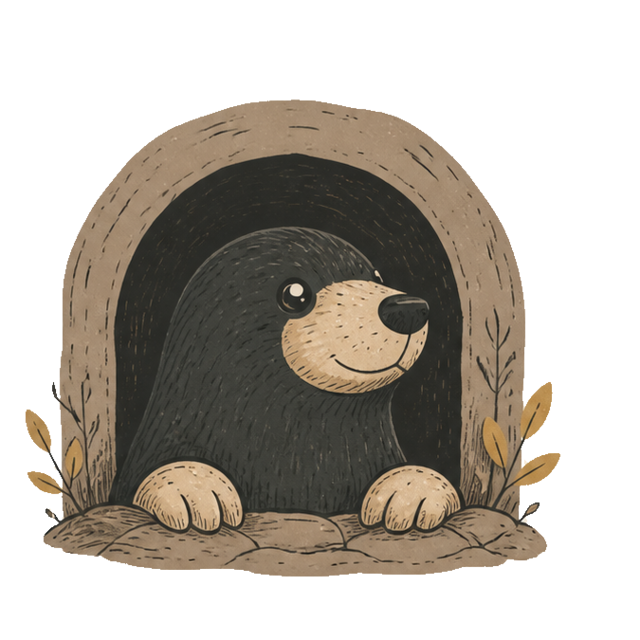
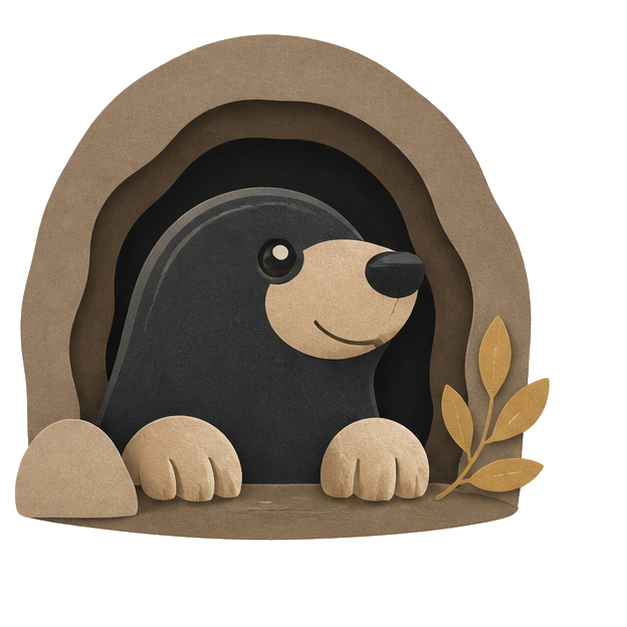
Use the selected mole and fix responsive branding

diff --git a/Burrowmarks/index.html b/Burrowmarks/index.html
@@ -13,10 +13,11 @@
   <link rel="canonical" href="https://goodburrow.github.io/Burrowmarks/">
   <link rel="icon" href="favicon.png">
   <link rel="stylesheet" href="styles.css">
+  <link rel="stylesheet" href="responsive-fixes.css">
 </head>
 <body>
   <nav class="nav" aria-label="Main navigation">
-    <a class="wordmark" href="#top"><img src="favicon.png" alt="">Burrowmarks</a>
+    <a class="wordmark" href="#top">Burrowmarks</a>
     <div><a href="#how">How it works</a><a href="#trust">Why it lasts</a><a class="nav-button" href="#install">Firefox preview</a></div>
   </nav>
 
@@ -30,7 +31,7 @@
         <p class="micro">Five links free forever · Unlimited for $14.99 once · Export anytime</p>
       </div>
       <div class="preview" role="img" aria-label="Preview of the Burrowmarks private vault">
-        <aside><span class="preview-brand"><img src="favicon.png" alt="">Burrowmarks</span><b>All private links</b><span>Tucked away</span><span>Backup &amp; export</span><small>LOCAL + ENCRYPTED</small><img class="mole" src="mole-character.png" alt=""></aside>
+        <aside><span class="preview-brand">Burrowmarks</span><b>All private links</b><span>Tucked away</span><span>Backup &amp; export</span><small>LOCAL + ENCRYPTED</small><img class="mole" src="mole-character.png" alt=""></aside>
         <div class="preview-main"><p class="eyebrow">Your private collection</p><h2>Quietly kept.</h2><div class="search">Search private links</div><div class="saved"><strong>Gift research</strong><span>••••••••••••</span></div><div class="saved"><strong>Personal reading</strong><span>••••••••••••</span></div><div class="saved"><strong>Saved for later</strong><span>••••••••••••</span></div></div>
       </div>
     </section>
@@ -59,7 +60,7 @@
     <section class="light fine-print"><h2>Private bookmarks without lock-in.</h2><p>The Firefox extension is being prepared for marketplace review. This page will link directly to the official Firefox Add-ons listing when it is approved.</p></section>
   </main>
 
-  <footer><a class="wordmark" href="#top"><img src="favicon.png" alt="">Burrowmarks</a><p>A Good Burrow product, made for people who prefer quiet control.</p><div><a href="#privacy">Privacy</a><a href="#terms">Terms</a><a href="https://github.com/GoodBurrow/goodburrow.github.io/issues">Support</a></div></footer>
+  <footer><a class="wordmark" href="#top">Burrowmarks</a><p>A Good Burrow product, made for people who prefer quiet control.</p><div><a href="#privacy">Privacy</a><a href="#terms">Terms</a><a href="https://github.com/GoodBurrow/goodburrow.github.io/issues">Support</a></div></footer>
   <section class="legal" id="privacy"><h2>Privacy</h2><p>Burrowmarks does not collect, transmit, sell, or analyze saved links, passwords, recovery keys, or usage. Vault data remains in Firefox local storage on the user’s device.</p></section>
   <section class="legal" id="terms"><h2>Terms</h2><p>The lifetime purchase will unlock the current Burrowmarks product for the purchaser. The software is provided as-is; users are responsible for saving their recovery key and backups. Complete purchase and refund terms will appear before checkout is activated.</p></section>
 </body>

diff --git a/Burrowmarks/responsive-fixes.css b/Burrowmarks/responsive-fixes.css
@@ -1,0 +1,43 @@
+/* Keep the illustrative product preview readable at every supported width. */
+.preview {
+  grid-template-columns: 175px minmax(0, 1fr);
+}
+
+.preview aside,
+.preview-main {
+  min-width: 0;
+}
+
+.preview-brand {
+  white-space: nowrap;
+}
+
+.mole {
+  width: calc(100% - 20px);
+  height: auto;
+  max-height: 132px;
+  object-fit: contain;
+}
+
+@media (max-width: 470px) {
+  .preview {
+    grid-template-columns: 145px minmax(0, 1fr);
+  }
+
+  .preview aside {
+    padding-inline: 14px;
+  }
+
+  .preview-brand {
+    font-size: 10px;
+  }
+
+  .preview-main {
+    padding-inline: 14px;
+  }
+
+  .mole {
+    width: calc(100% - 14px);
+    max-height: 106px;
+  }
+}
